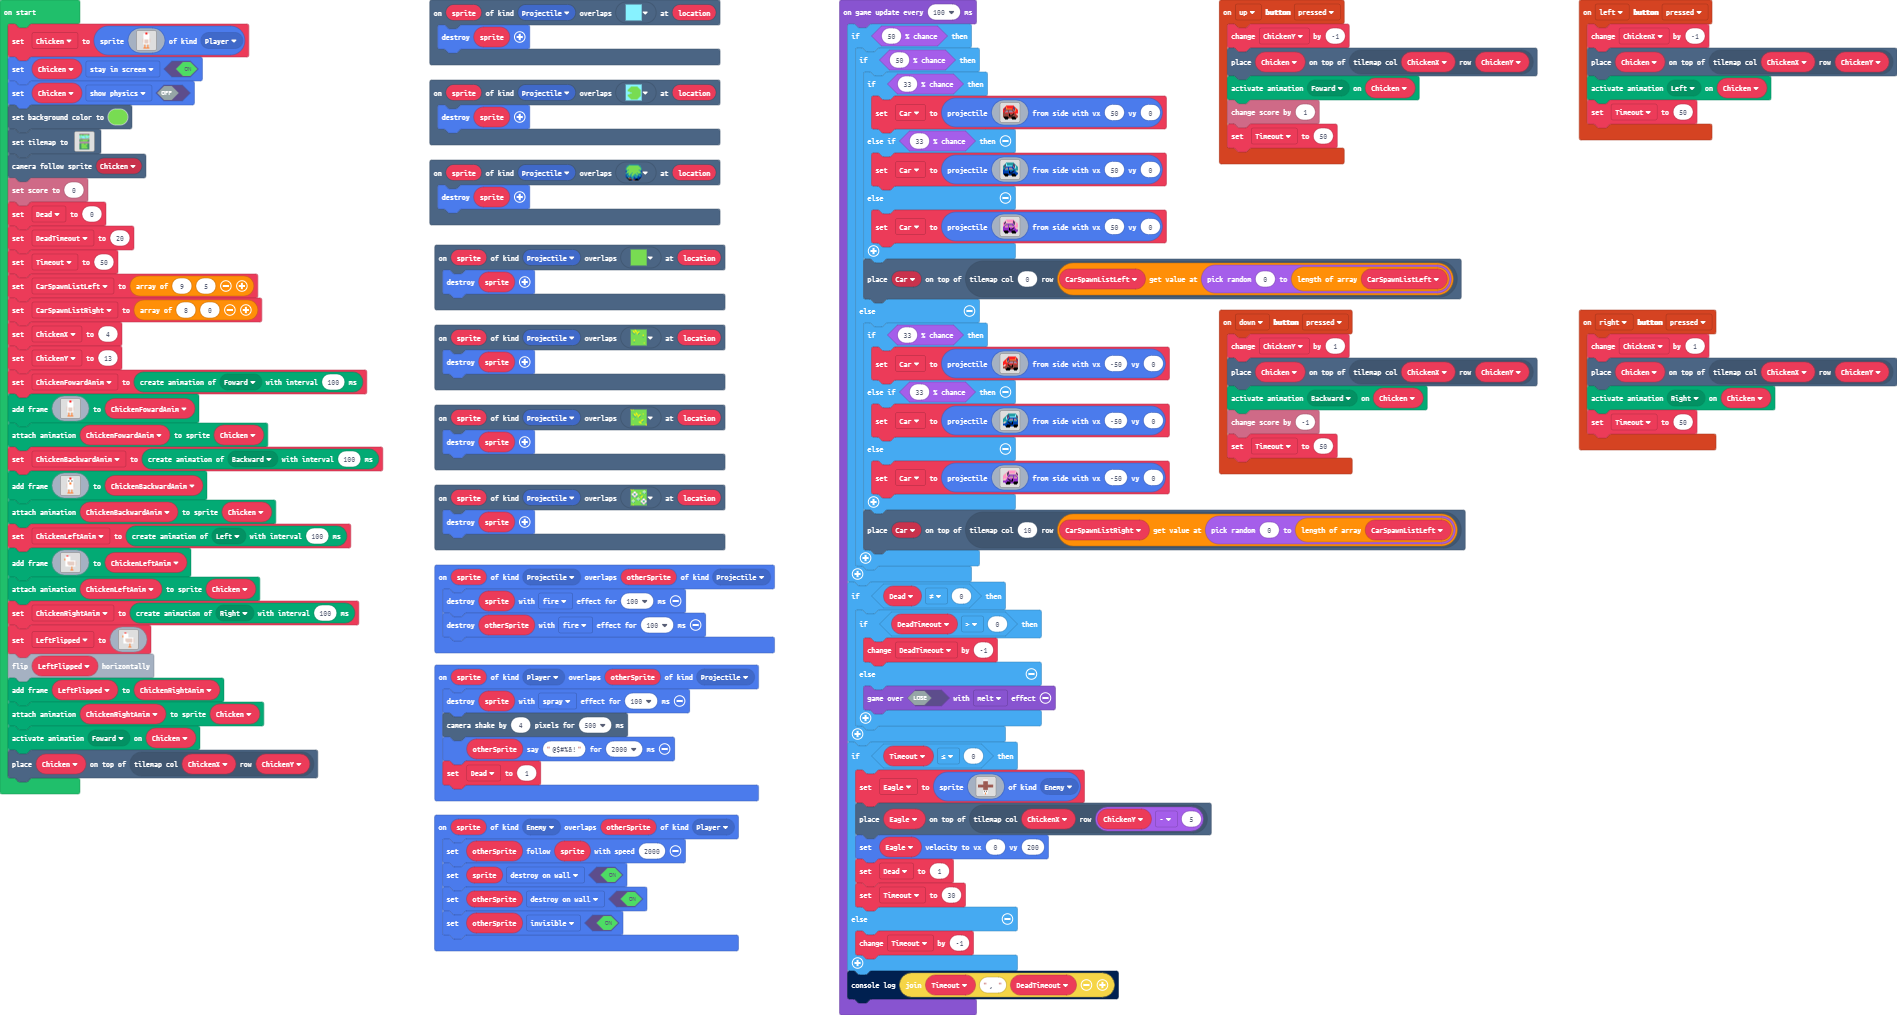
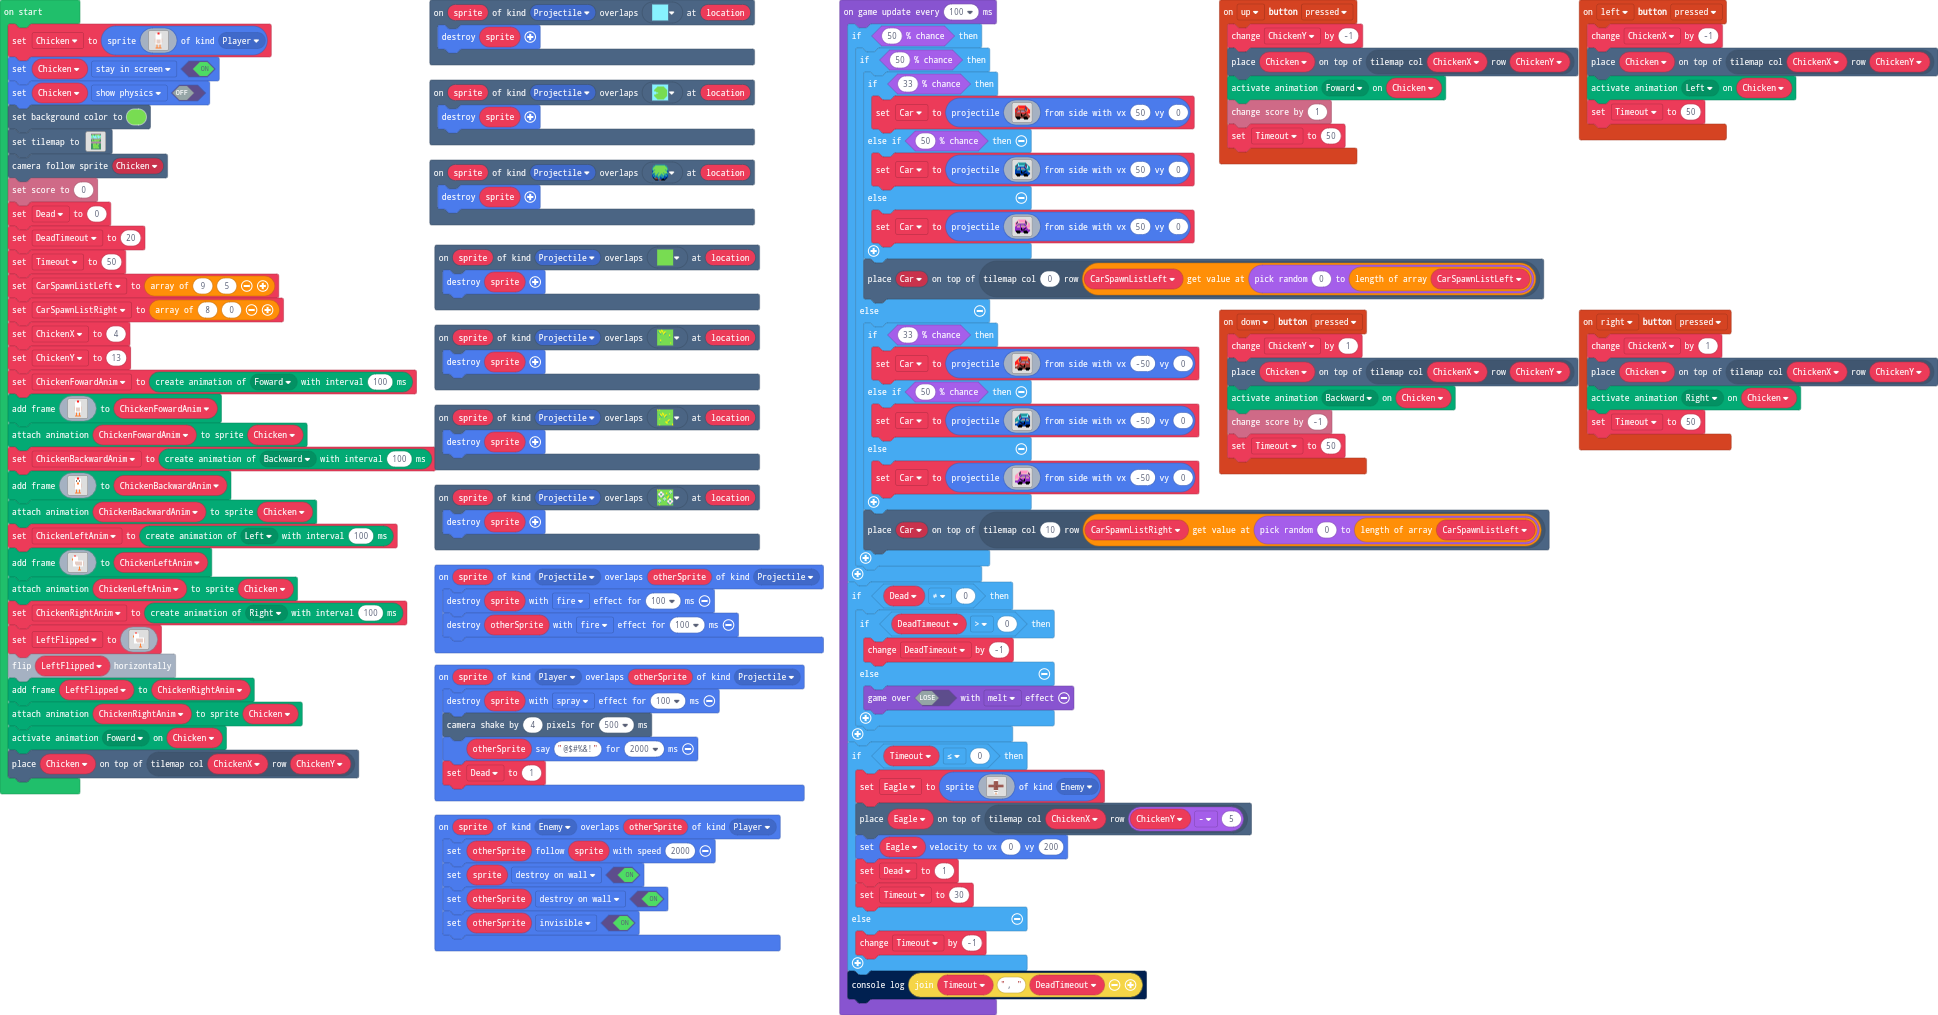
Update main.blocks, main.ts

Changed region(s): [[0.0, 0.0, 0.9642, 1.0], [0.2177, 0.0, 0.4043, 0.2138], [0.3732, 0.9163, 0.4043, 0.9468]]

diff --git a/main.ts b/main.ts
@@ -314,7 +314,7 @@ game.onUpdateInterval(100, function () {
 . . . f f f . . . . f f f f . . 
 . . . . . . . . . . . . . . . . 
 `, 50, 0)
-            } else if (Math.percentChance(33)) {
+            } else if (Math.percentChance(50)) {
                 Car = sprites.createProjectileFromSide(img`
 . . . . . . . . . . . . . . . . 
 . . . . 6 6 6 6 6 6 6 6 . . . . 
@@ -374,7 +374,7 @@ game.onUpdateInterval(100, function () {
 . . . . f f f f . . . . f f f . 
 . . . . . . . . . . . . . . . . 
 `, -50, 0)
-            } else if (Math.percentChance(33)) {
+            } else if (Math.percentChance(50)) {
                 Car = sprites.createProjectileFromSide(img`
 . . . . . . . . . . . . . . . . 
 . . . . . . 6 6 6 6 6 6 6 6 . . 
